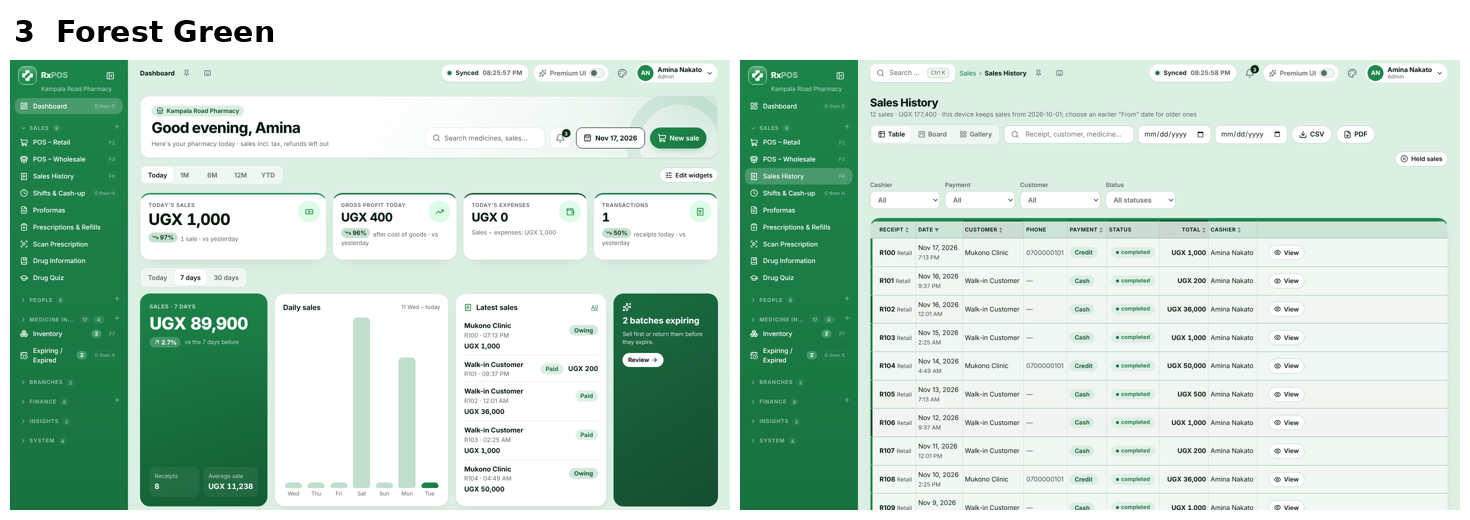
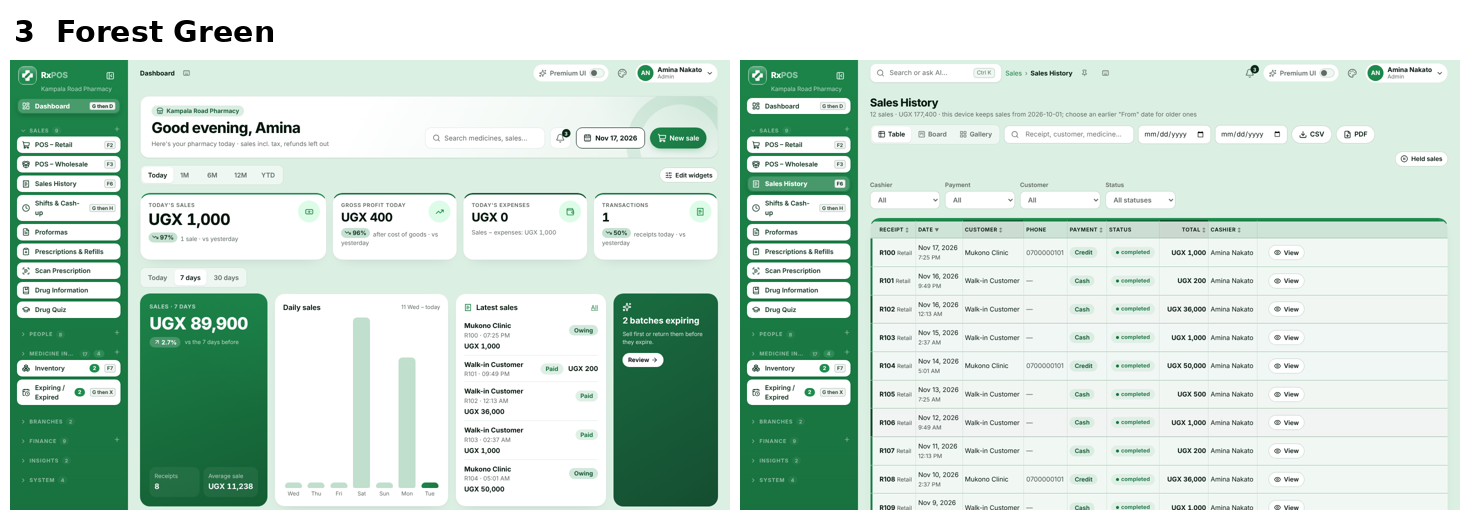
Menu pages as white buttons with dark words; no pin on the dashboard; the sync pill only when something needs attention (Sync now in the account menu)
Claude-Session: https://claude.ai/code/session_015uMCYZdrYXjtxk4scNeyiP

diff --git a/src/App.jsx b/src/App.jsx
@@ -338,7 +338,9 @@ function ClockPill() {
   const click = () => (syncStatus.expired ? setUser(null) : storageIssue || syncStatus.rejected > 0 ? navigate('/device') : syncNow());
   return (
     // step 24: the spoken name starts with the words on the pill (axe label-content-name-mismatch), then the detail
-    <button className={'pill clock ' + tone} title={tip} aria-label={`${label} ${clockTime} ${clockDate}. ${tip}`} onClick={click}>
+    // shown only when something needs the person (offline, refused changes, sign in again, storage): the owner asked for
+    // no sync button while all is well (17 Nov 2026); F5 still syncs, and the account menu has Sync now
+    <button className={'pill clock ' + tone} hidden={tone === 'ok' || tone === 'syncing'} title={tip} aria-label={`${label} ${clockTime} ${clockDate}. ${tip}`} onClick={click}>
       <i /><span className="clock-state" aria-live="polite">{label}</span>{' '}<span className="clock-time">{clockTime}</span>{' '}
       <span className="clock-date">{clockDate}</span>
     </button>
@@ -653,8 +655,8 @@ function Shell() {
             return pg ? (
               <nav className="crumbs" aria-label="You are here">
                 {g?.group && <button type="button" className="link-btn muted crumb-group" title={`Every page under ${g.group}`} onClick={() => setMega(true)}>{g.group}</button>}{g?.group && <span className="muted" aria-hidden="true">›</span>}<strong>{pg.label}</strong>
-                <button className={'icon-btn sm' + (nav.pins.includes(here) ? ' on' : '')} aria-pressed={nav.pins.includes(here)} onClick={() => togglePin(here)}
-                  title={`${nav.pins.includes(here) ? 'Unpin this page from' : 'Pin this page to'} the top of the menu (${showKey(keyOf('pin'))})`} aria-label={nav.pins.includes(here) ? 'Unpin this page' : 'Pin this page'}><Pin size={14} /></button>
+                {here !== '/' && <button className={'icon-btn sm' + (nav.pins.includes(here) ? ' on' : '')} aria-pressed={nav.pins.includes(here)} onClick={() => togglePin(here)}
+                  title={`${nav.pins.includes(here) ? 'Unpin this page from' : 'Pin this page to'} the top of the menu (${showKey(keyOf('pin'))})`} aria-label={nav.pins.includes(here) ? 'Unpin this page' : 'Pin this page'}><Pin size={14} /></button>}
                 <button className="icon-btn sm" onClick={() => setHelp(true)} title={`Keyboard and mouse (${showKey(keyOf('help'))})`} aria-label="Keyboard and mouse help"><Keyboard size={14} /></button>
               </nav>
             ) : null;
@@ -676,6 +678,7 @@ function Shell() {
               <button className="menu-item" role="menuitem" title="Change my password" onClick={() => changePassword(false)}><KeyRound size={16} />Change my password</button>
               {isNative && <button className={'menu-item' + (pinSet ? ' text-ok' : '')} role="menuitem" title={pinSet ? 'Quick PIN is set for this device' : 'Set a quick PIN for this device'} onClick={manageDevicePin}><LockKeyhole size={16} />{pinSet ? 'Quick PIN is set for this device' : 'Set a quick PIN for this device'}</button>}{/* web: nothing is kept on the computer, so no device PIN */}
               {syncCfg?.key?.startsWith('u.') && <button className={'menu-item' + (me?.twoFactor ? ' text-ok' : '')} role="menuitem" title={me?.twoFactor ? 'Two-step sign-in is on' : 'Two-step sign-in'} onClick={() => setTwoStepOpen(true)}><ShieldCheck size={16} />{me?.twoFactor ? 'Two-step sign-in is on' : 'Two-step sign-in'}</button>}
+              <button className="menu-item" role="menuitem" title="Sync now (F5)" onClick={() => syncNow()}><RefreshCw size={16} />Sync now</button>
               <button className="menu-item danger" role="menuitem" title="Log out" onClick={signOut}><LogOut size={16} />Log out</button>
             </div>
           </div>

diff --git a/src/styles/duotone.css b/src/styles/duotone.css
@@ -95,6 +95,19 @@
 
   :root[data-palette][data-sidebar='light'] .bento-hero { background: radial-gradient(120% 90% at 100% 0%, color-mix(in srgb, var(--sidebar) 30%, transparent), transparent 60%), linear-gradient(160deg, var(--primary), color-mix(in srgb, var(--primary) 70%, #000)); }
   :root[data-palette] .bento-hero :is(.bento-delta, .bento-delta.up, .bento-delta.down) { background: rgba(255, 255, 255, .2); color: #fff; }
+  /* the menu's pages as white buttons with dark words (the owner's request, 17 Nov 2026); the open one ringed and lit
+     in the brand colour */
+  :root[data-palette] .sidebar nav a { background: #ffffff; color: var(--menu-ink); margin: 0 4px 5px; border-radius: 10px; font-weight: 600;
+    box-shadow: 0 1px 2px rgba(0, 0, 0, .12); }
+  :root[data-palette] .sidebar nav a svg { color: var(--menu-ink); }
+  :root[data-palette] .sidebar nav a:hover { background: #f1f4f8; color: var(--menu-ink); padding-left: 10px; }
+  :root[data-palette] .sidebar nav a.active, :root[data-palette][data-sidebar] .sidebar nav a.active { background: #ffffff; color: var(--menu-ink); font-weight: 750;
+    box-shadow: inset 0 0 0 2px var(--menu-lit), 0 4px 12px -4px rgba(0, 0, 0, .35); }
+  :root[data-palette] .sidebar nav a.active svg, :root[data-palette][data-sidebar] .sidebar nav a.active svg { color: var(--menu-lit); }
+  :root[data-palette] .sidebar nav a.active::before, :root[data-palette][data-sidebar] .sidebar nav a.active::before { display: none; }
+  :root[data-palette] .sidebar nav a kbd { color: var(--menu-ink); border-color: color-mix(in srgb, var(--menu-ink) 25%, transparent); background: color-mix(in srgb, var(--menu-ink) 6%, #fff); opacity: 1; }
+  :root[data-palette] .sidebar nav a .count { background: var(--primary); color: var(--on-accent); }
+
   /* the page and its cards: colour 2 under, white cards over */
   :root[data-palette] body { background-image: none; }
   :root[data-palette] .kit-icon { --kit: var(--primary) !important; }

diff --git a/src/themes.js b/src/themes.js
@@ -140,7 +140,7 @@ function duoVars(c, dark) {
   return {
     '--ok': ok, '--ok-soft': soft(0.14), '--warn': warn, '--warn-soft': soft(0.2), '--danger': danger, '--danger-soft': soft(0.26),
     '--violet': shade(0.2), '--violet-soft': soft(0.16), '--info': shade(0.12), '--info-soft': soft(0.14), '--blue': shade(0.1), '--blue-soft': soft(0.14),
-    '--c2': c.c2 || c.bg, '--c1-deep': shade(0.25), '--logo-2': logo2(c), '--row-tint': `${c.rowTint ?? 7}%`, '--row-hover': `${(c.rowTint ?? 7) + 4}%`, '--head-tint': `${c.headTint ?? 16}%`,
+    '--c2': c.c2 || c.bg, '--c1-deep': shade(0.25), '--logo-2': logo2(c), '--menu-lit': readable(c.primary, ['#ffffff'], '#000000'), '--menu-ink': readable(mix(lightMenu(c.sidebar) || c.sidebar === c.primary ? c.primary : c.sidebar, '#000000', 0.62), ['#ffffff', '#f1f4f8'], '#000000', 7), '--row-tint': `${c.rowTint ?? 7}%`, '--row-hover': `${(c.rowTint ?? 7) + 4}%`, '--head-tint': `${c.headTint ?? 16}%`,
     // charts, the till's actions and the Vivid tiles: the same two colours
     '--viz-1': c.primary, '--viz-2': c.sidebar === c.primary ? mix(c.primary, toward, 0.45) : c.sidebar,
     '--m-in': c.primary, '--m-purch': mix(c.primary, toward, 0.35), '--m-exp': danger, '--m-profit': c.sidebar === c.primary ? warn : c.sidebar,

diff --git a/src/styles.css b/src/styles.css
@@ -2955,3 +2955,6 @@ tr.group-head > td { background: var(--surface-2); padding: 6px 10px; }
 .account-drop .menu-item.danger { color: var(--danger); }
 .account-drop .menu-item.danger:hover { background: var(--danger-soft); color: var(--danger); }
 @media (max-width: 900px) { .account-who, .account-btn > svg { display: none; } .account-btn { padding: 0 4px; border: 0; } }
+
+/* the sync pill shows only when something needs the person (offline, refused changes, sign in again) */
+.pill.clock[hidden] { display: none; }
